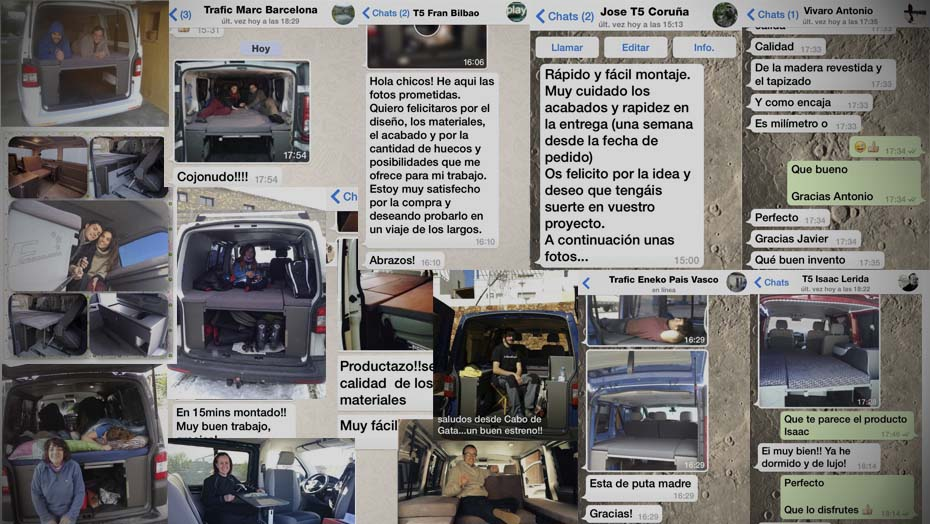
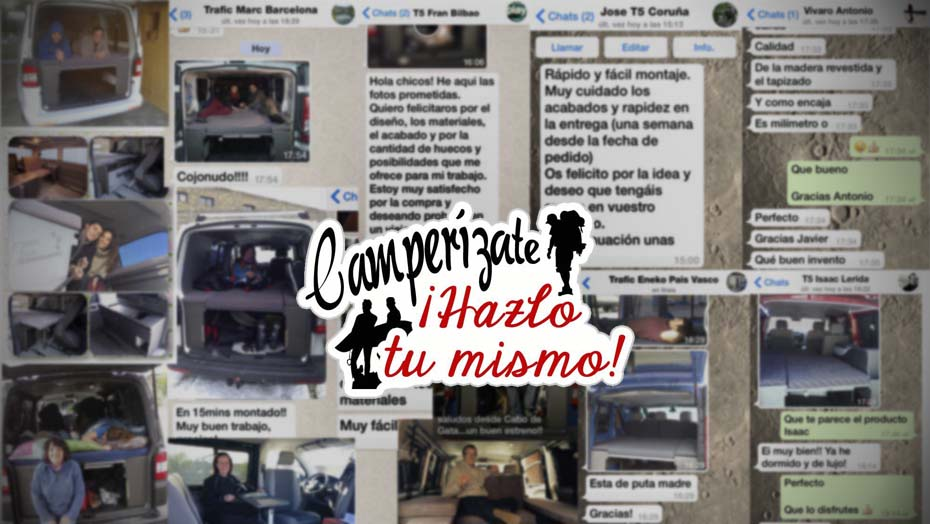
Nuevo slide + promo facebook

diff --git a/src/fm/mainBundle/Resources/public/css/layout.css b/src/fm/mainBundle/Resources/public/css/layout.css
@@ -1029,6 +1029,22 @@ textarea, input[type="text"], input[type="password"], input[type="datetime"], in
   border: 5px solid #F76B17;
 }
 
+.th-top-no-border.animated.fadeInLeftBig {
+  display: block;
+  float: left;  
+  width: 25%;
+  margin-top: 3%;
+  margin-left: 3%;
+}
+
+.th-top-no-border.animated.fadeInRightBig {
+  display: block;
+  float: right;
+  width: 25%;
+  margin-top: 3%;
+  margin-right: 3%;
+}
+
 .th-bottom.animated.fadeInLeftBig {
   display: block;
   width: 25%;
@@ -1099,7 +1115,7 @@ textarea, input[type="text"], input[type="password"], input[type="datetime"], in
 .th-large-bottomcenter-center.animated {
   width: 80%;
   position: absolute;
-  bottom: 15%;
+  bottom: 0%; /* 15% */ 
   margin-left: auto;
   margin-right: auto;
   left: 0;
@@ -1109,7 +1125,7 @@ textarea, input[type="text"], input[type="password"], input[type="datetime"], in
 .th-large-topcenter-center.animated {
   width: 80%;
   position: absolute;
-  top: 15%;
+  top: 0%; /* 15% */ 
   margin-left: auto;
   margin-right: auto;
   left: 0;
